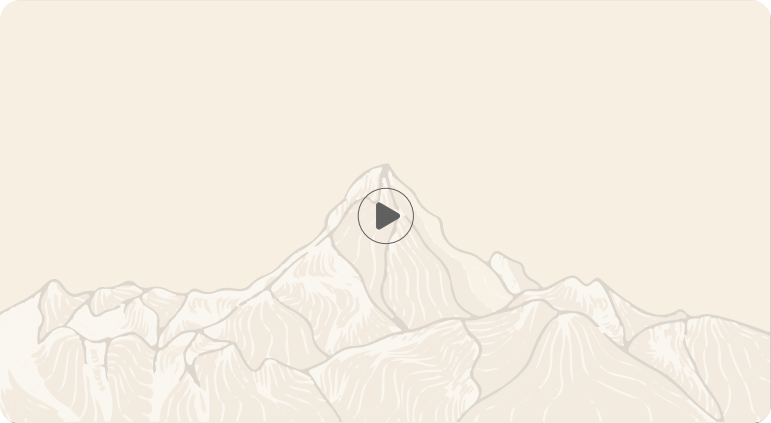
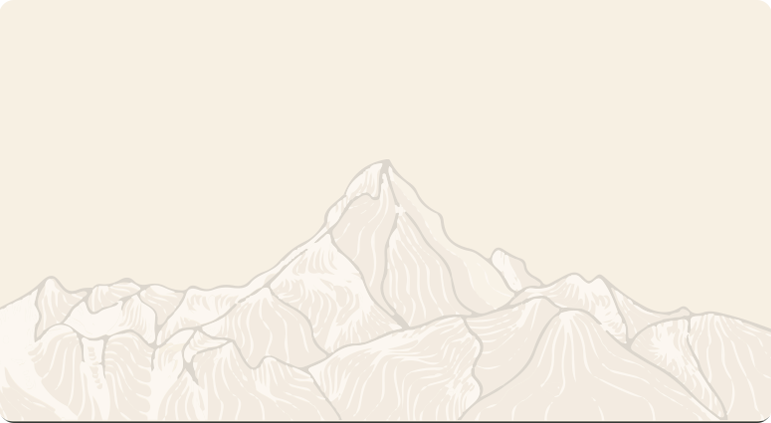
ui changes

diff --git a/src/assets/css/style.css b/src/assets/css/style.css
@@ -873,11 +873,11 @@ position: relative;
 .about-anilkumar-block  { position: relative;}
 .anikumar-img { 
   position: absolute;
-   top:0;
+   top:8%;
     left: 18%;
 }
 .aniltext{
-  margin-top: 513px;
+  margin-top: 134%;
   margin-left: 84px;
 }
 
